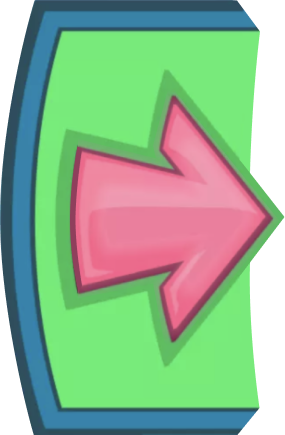
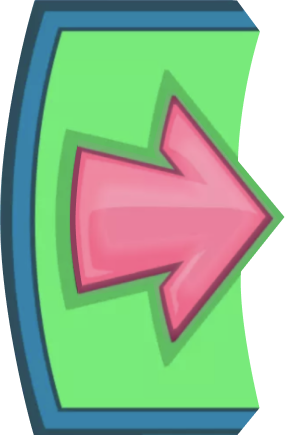
fix: Ratio for new projection size, and fix Arrow bg img

diff --git a/src/components/Wheel/Wheel.tsx b/src/components/Wheel/Wheel.tsx
@@ -3,7 +3,7 @@ import { calculateChosenItem } from '../Wheel/calculateChosenItem';
 import { useFullScreenCanvas } from './useFullScreenCanvas';
 import { useKeyAction } from '../useKeyAction';
 
-const WHEEL_CANVAS_RATIO_MAX = 0.76;
+const WHEEL_CANVAS_RATIO_MAX = 0.65;
 const TEXT_TO_WHEEL_RATIO = 16;
 
 type WheelProps = {
